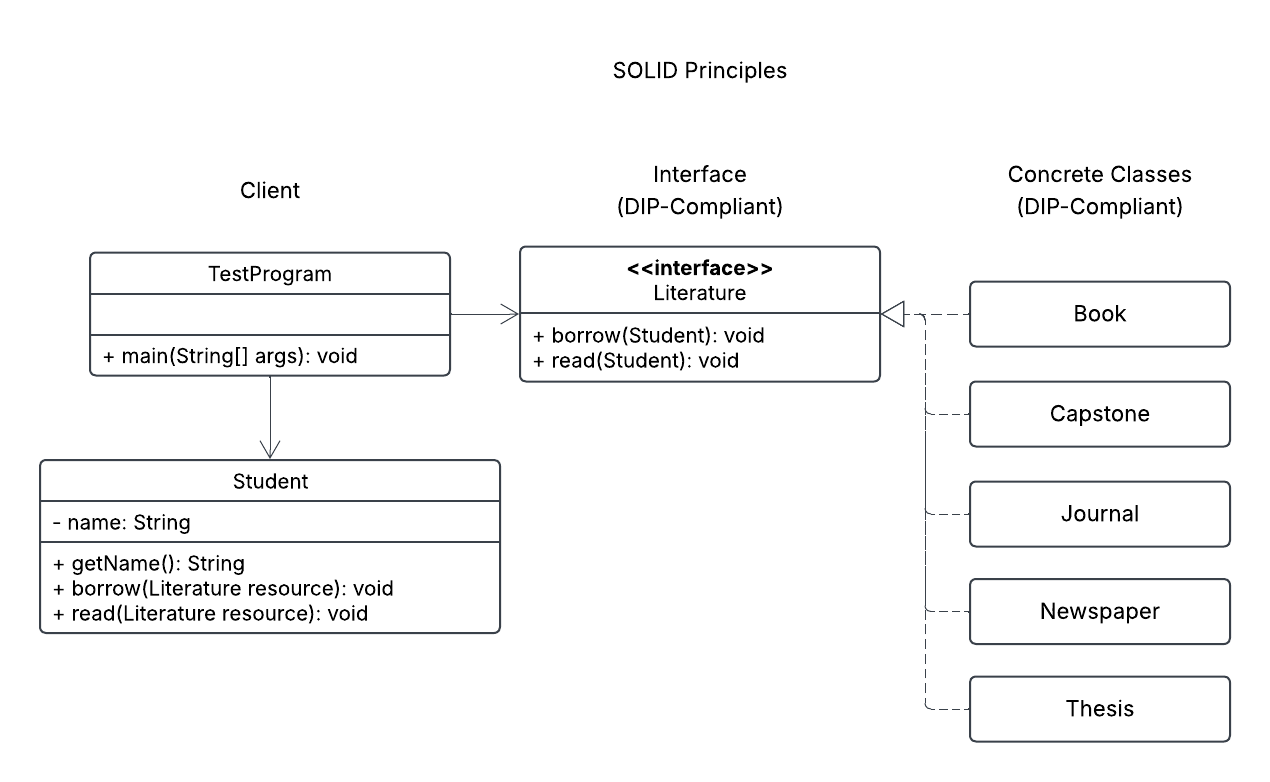
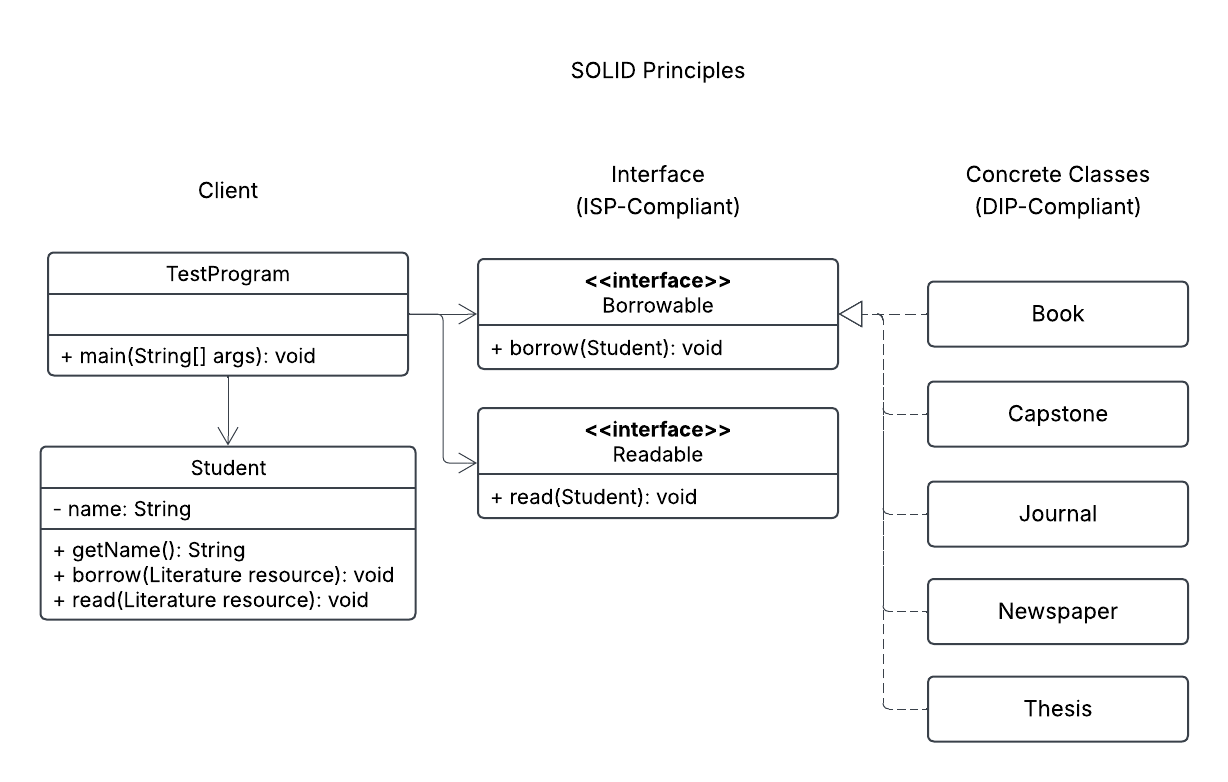
Finished

diff --git a/TestProgram.java b/TestProgram.java
@@ -2,18 +2,20 @@ public class TestProgram {
     public static void main(String[] args) {
         Student student = new Student("Felix");
 
-        Literature book = new Book("Book1");
-        Literature journal = new Journal("Journal1");
-        Literature thesis = new Thesis("Thesis1");
-        Literature capstone = new Capstone("Capstone1");
-        Literature newspaper = new Newspaper("Newspaper1");
+        // Resources that are both Borrowable and Readable
+        Book book = new Book("Book1");
+        Journal journal = new Journal("Journal1");
+        Thesis thesis = new Thesis("Thesis1");
+        Capstone capstone = new Capstone("Capstone1");
+        
+        // Resource that is ONLY Readable
+        Newspaper newspaper = new Newspaper("Newspaper1");
 
         System.out.println("--- Testing Borrowing ---");
         student.borrow(book);
         student.borrow(journal);
         student.borrow(thesis);
         student.borrow(capstone);
-        student.borrow(newspaper);
 
         System.out.println("\n--- Testing Reading ---");
         student.read(book);

diff --git a/Newspaper.java b/Newspaper.java
@@ -1,4 +1,4 @@
-public class Newspaper implements Literature {
+public class Newspaper implements Readable {
     private String title;
 
     public Newspaper(String title) {
@@ -9,10 +9,6 @@ public class Newspaper implements Literature {
         return title;
     }
 
-    @Override
-    public void borrow(Student student) {
-        System.out.println(student.getName() + " is borrowing newspaper: " + title);
-    }
 
     @Override
     public void read(Student student) {

diff --git a/Student.java b/Student.java
@@ -9,11 +9,11 @@ public class Student {
         return name;
     }
 
-    public void borrow(Literature resource) {
+    public void borrow(Borrowable resource) {
         resource.borrow(this);
     }
 
-    public void read(Literature resource) {
+    public void read(Readable resource) {
         resource.read(this);
     }
 }

diff --git a/Capstone.java b/Capstone.java
@@ -1,4 +1,4 @@
-public class Capstone implements Literature {
+public class Capstone implements Borrowable, Readable {
     private String title;
 
     public Capstone(String title) {

diff --git a/Journal.java b/Journal.java
@@ -1,4 +1,4 @@
-public class Journal implements Literature {
+public class Journal implements Borrowable, Readable {
     private String title;
 
     public Journal(String title) {

diff --git a/Thesis.java b/Thesis.java
@@ -1,4 +1,4 @@
-public class Thesis implements Literature {
+public class Thesis implements Borrowable, Readable {
     private String title;
 
     public Thesis(String title) {

diff --git a/Book.java b/Book.java
@@ -1,4 +1,4 @@
-public class Book implements Literature {
+public class Book implements Borrowable, Readable {
     private String title;
 
     public Book(String title) {

diff --git a/Borrowable.java b/Borrowable.java
@@ -1,0 +1,3 @@
+public interface Borrowable {
+    void borrow(Student student);
+}

diff --git a/Readable.java b/Readable.java
@@ -1,0 +1,3 @@
+public interface Readable {
+    void read(Student student);
+}
